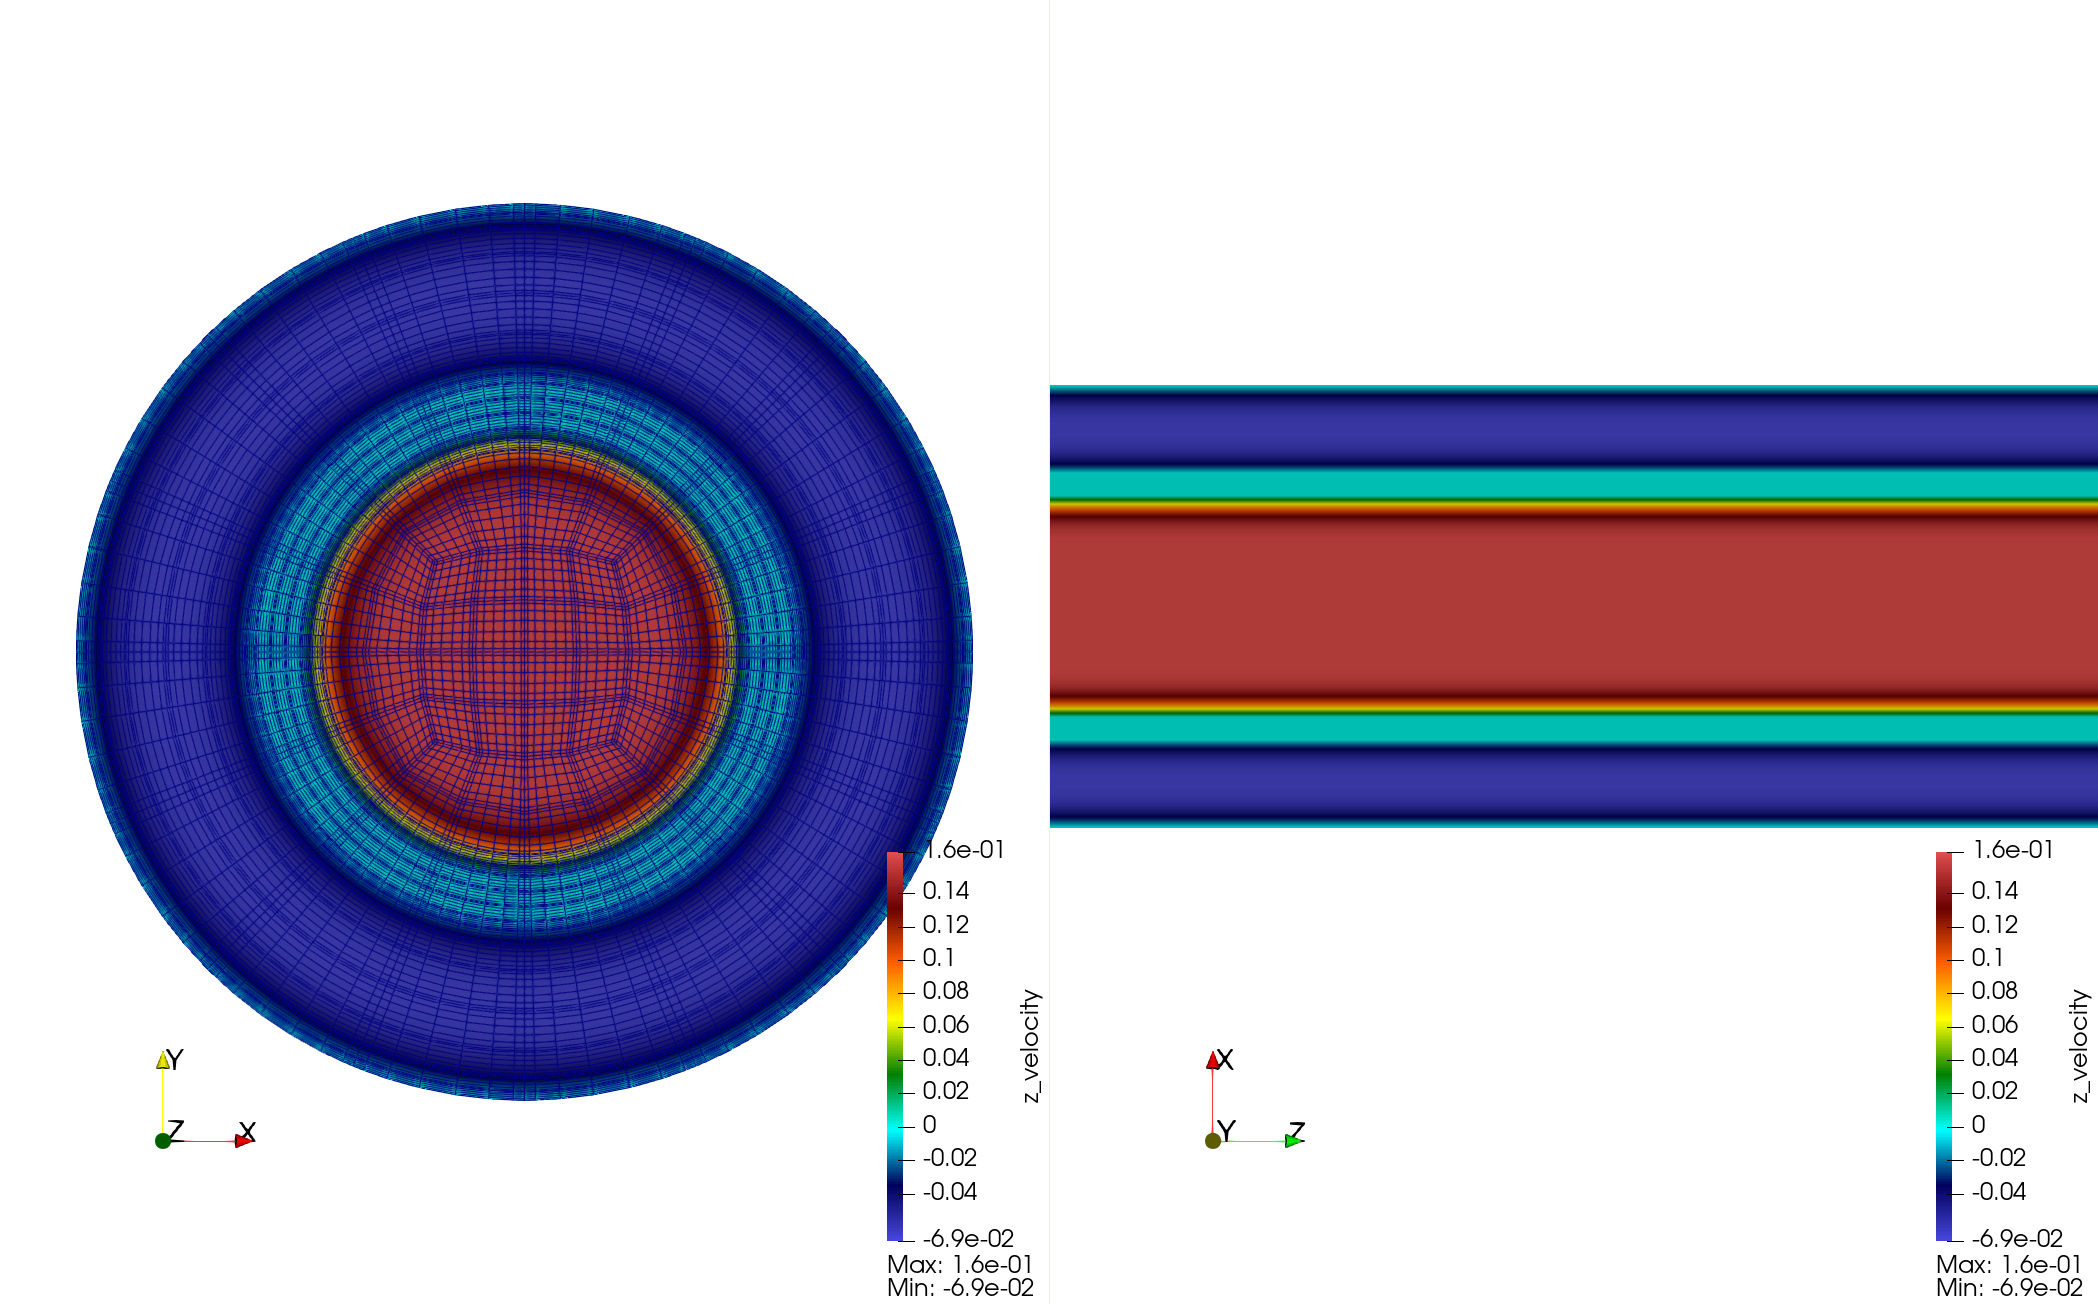
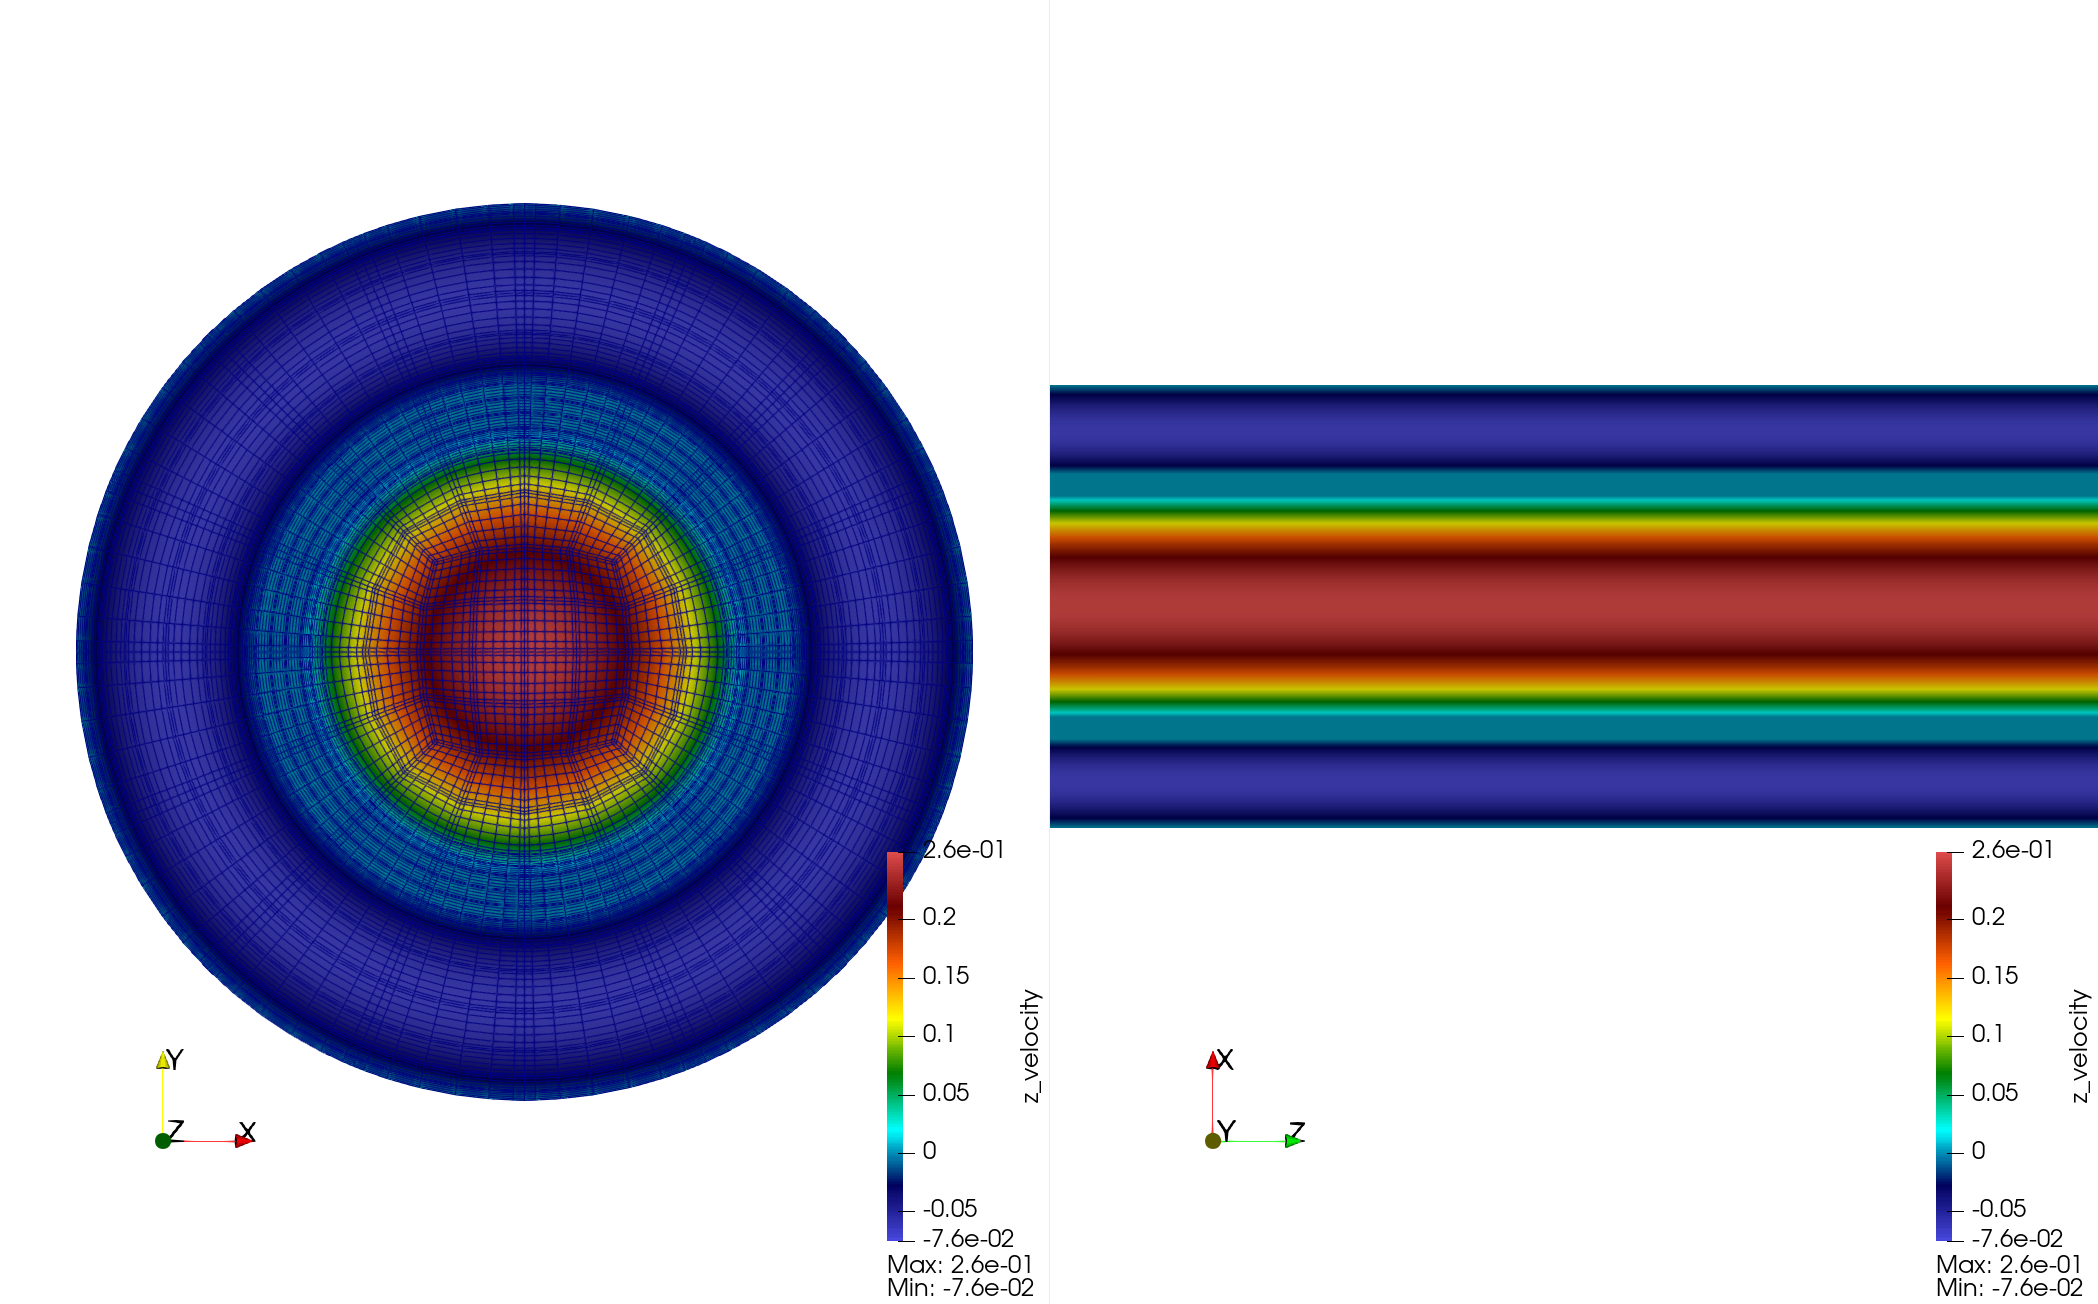
upd results

diff --git a/doublePipeHx/README.md b/doublePipeHx/README.md
@@ -2,6 +2,11 @@
 
 Version: NekRS v26
 
+This example features
+- Running NekRS case in dimensional units
+- Two fluid systems separated by solid domain
+- Dual recycling inlet
+
 | Domain | Material | T (inlet) | U (vz, inlet) | hydro diameter | Re_D | Pe_D |
 |:---|:---|:---|:---|:---|:---|:---|
 | $0 < r < r_1$   | hot water  | $90^\circ C$ |  1.29e-1 [m/s] | $2 r_1$      | 2.3300e+04 | 8.2854e+04 |
@@ -48,7 +53,9 @@ In `usrdat2`, we use `zmid=5.0` and `rmid=1.1` (can be obtained by any interior 
 
 ## Early Results
 
-At time = 50, velocity seems to reach steady state while temperature hasn't.
+- Steady state check  
+  At time = 2000, both velocity and temperature settle to (near) steady state.  
+  <img src="figs/chk_stdy.png" height="400">
 
 - vz slices at z=5 (left) and at y=0 (right)    
   <img src="figs/vz_slices.png" height="400">
@@ -56,21 +63,37 @@ At time = 50, velocity seems to reach steady state while temperature hasn't.
 - vz (left) and T (right) wrap in z direction at z=5.   
   <img src="figs/vz_t_wrap.png" height="400">
 
-- T at several x lines (z=0, 5, 10)    
-  <img src="figs/t_xlines.png" height="400">
-
 - vz at several x lines (z=0, 5, 10)      
   <img src="figs/vz_xlines.png" height="400">
 
+- T at several x lines (z=0, 5, 10)    
+  <img src="figs/t_xlines.png" height="400">
+
+- T outlet
+  T outlet is the surface integral average of the temperature at outlet.
+
+  $$T_{bar} = \int_A T dA / \left(\int_A dA\right) = \int_A T dA / A$$
+  $$T_{bulk} = \int_A uT dA / \left(\int_A u dA\right) = \int_A uT dA / (A * U)$$
+
+
+  T_bulk
+
+  ```
+  T_bulk  inlet       outlet
+  hot     90          87.1376458
+  cold    20          22.8850030
+
+  T_bar
+  hot     90          79.1581461
+  cold    20          25.4244381
+  ```
 
 ## Validation
 
-We deploy recyclined inlet to maintain prescribed mean flow, turbulent outlet for stability, and walls for the rest.
-For the temperature, only inlet temperature is set and the rest are all insulated wall.
+We deploy recycled inlet to maintain prescribed mean flow, turbulent outlet for stability (if backflow presents), and walls for the rest.
+For the temperature BCs, only inlet temperature is set and the rest are all insulated wall.
 
-While keeping the mass flow rate for both fluid systems, according to ChatGPT, temperature at the outlet should eventually become
-
-Table from ChatGPT, need double-check
+Table from ChatGPT (using 1D estimation)
 
 ```
 m_dot   U1        U2        Re1      Re2      Pe1      Pe2      T_final         Th,out   Tc,out
@@ -89,6 +112,7 @@ kg/s    m/s       m/s
 
 
 TODO
-- check steady state (dU/dt, dT/dt)
 - fix parameters, nondimensionalize
 - add nusselt number
+- planar avg
+- recycling temperature to achieve target Tbulk at inlets
